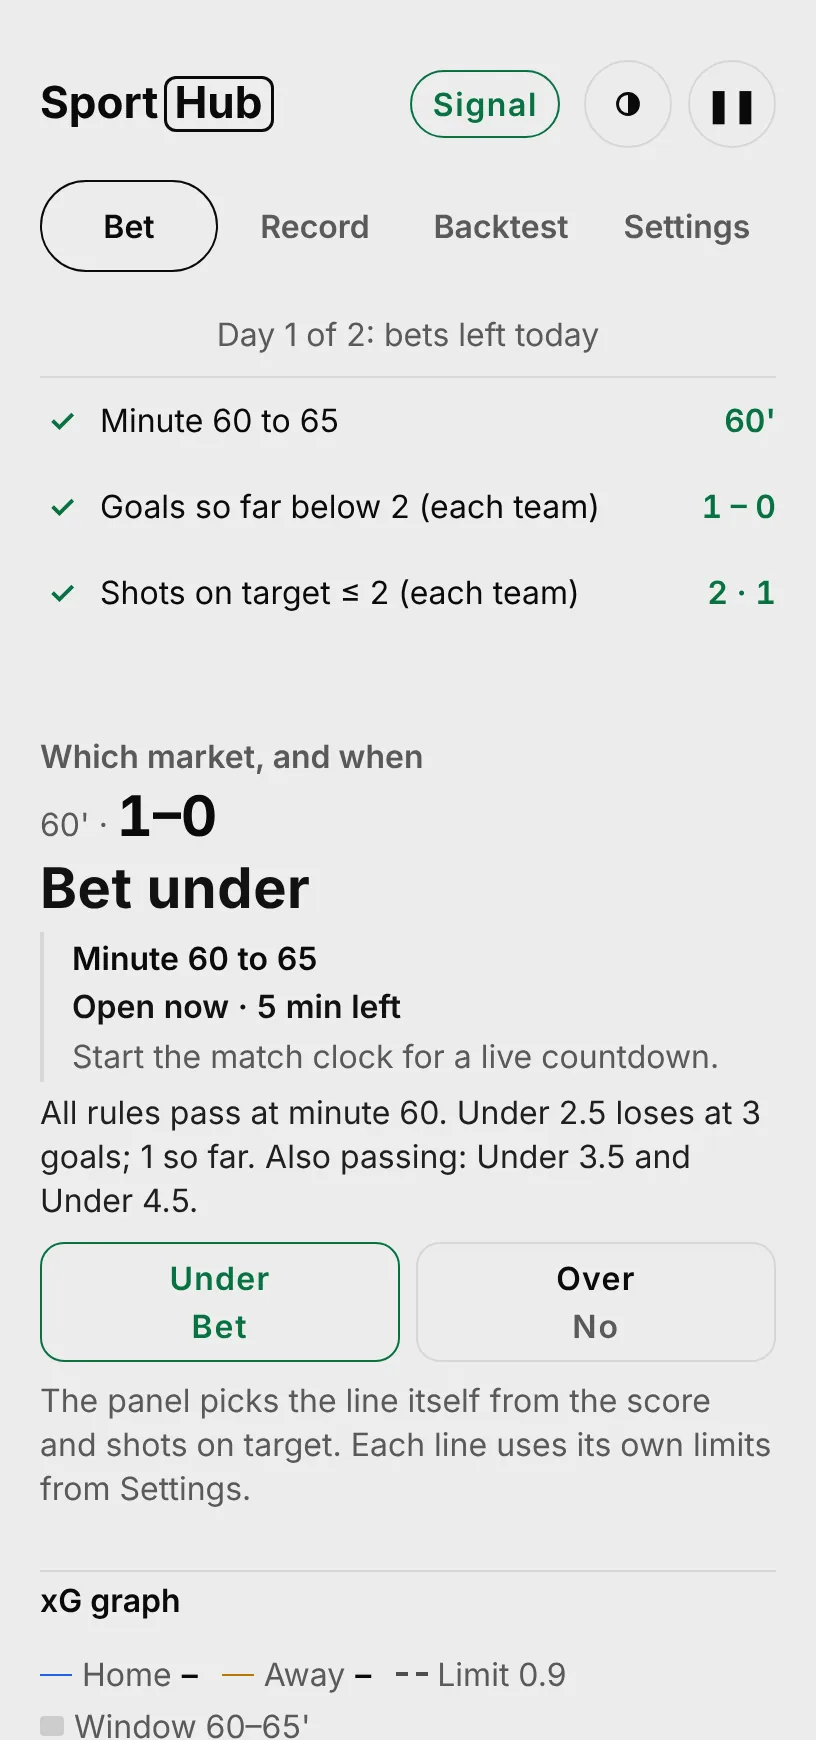
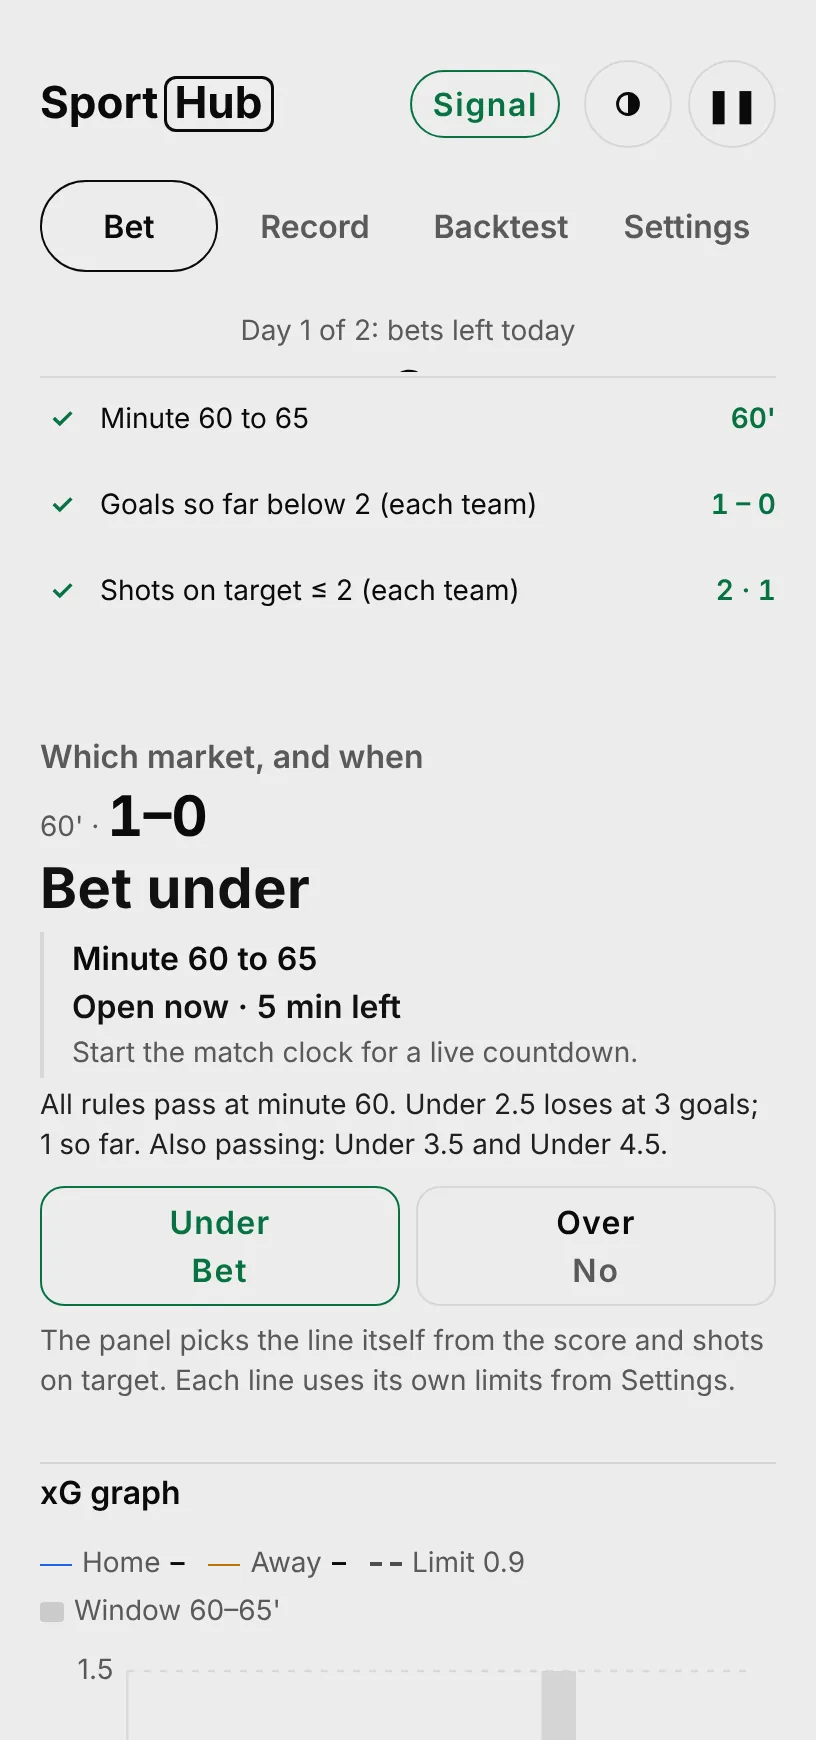
Smaller body text: 14 px
Body text, labels, notes and rule rows are 14 px; names, buttons, tabs and
headings stay 16 px semibold; fields stay 16 px so the iPhone does not zoom.

Claude-Session: https://claude.ai/code/session_01K42p2uwRXf4Wwj9iN5MFzn

diff --git a/panel.html b/panel.html
@@ -674,6 +674,9 @@ body:not(.compact) #v-bet #fd-mom .xgcard::before{content:"Momentum";--ic:var(--
 }
 
 /* ===== Build 60: simple and spacious. A flat page on one ground: no banner picture, no big boxes, no icons. Sections are separated by space and a thin line; only small things (buttons, fields, the Under / Over cells, the 1-12 chips) have an outline. Text is normal case. Layout, logic and markup are the same as build 59. ===== */
+/* Body text is 14 px (regular). Names, headings, buttons, tabs and status words stay 16 px semibold; fields stay 16 px so the iPhone does not zoom when you tap one. */
+:root{--t-body:400 14px/20px var(--body);--t-sub:400 14px/20px var(--body);--t-label:400 14px/20px var(--body)}
+.xgbox .tk,.xgbox .lmt{font-size:calc(14px*var(--k,1))}
 /* one ground: the panel colour is the page colour in both themes */
 :root,:root:not([data-theme="dark"]),:root:not([data-theme="light"]),:root[data-theme="dark"],:root[data-theme="light"]{--panel:var(--bg)}
 body{background:var(--bg)}
